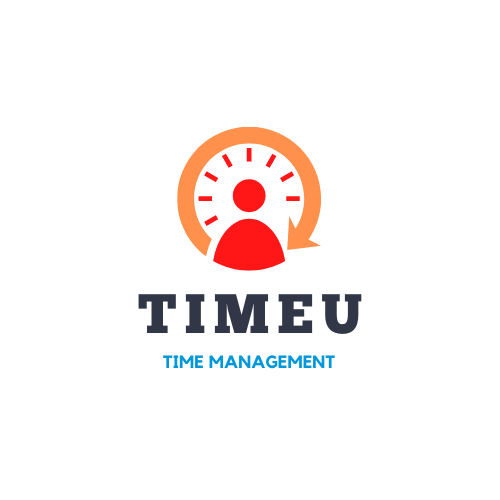
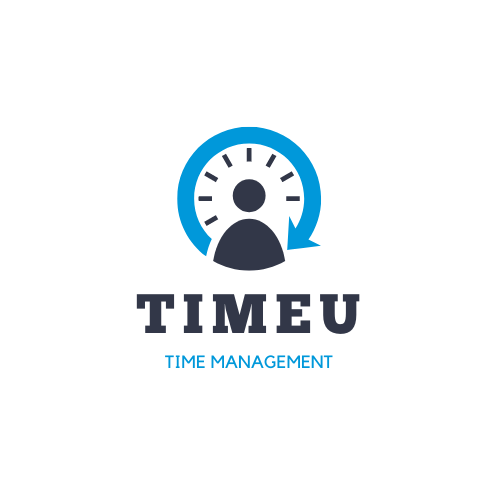
changed the appearance of the main page and included empty string once task is submitted.

Changed region(s): [[0.33, 0.24, 0.66, 0.54], [0.27, 0.57, 0.72, 0.66], [0.33, 0.69, 0.66, 0.75]]

diff --git a/style.css b/style.css
@@ -24,7 +24,7 @@
 
 nav {
     height: 20px;
-    background-color: #03CEA4;
+    background-color: #ade8f4;
     border: none;
 }
 
@@ -49,7 +49,7 @@ nav {
 }
 
 #contentMenu {
-    background-color: #EAC435;
+    background-color: #ade8f4;
     width: 300px;
     height: 100vh;
     justify-self: self-start;
@@ -69,6 +69,7 @@ nav {
 
 .important {
     text-align: center;
+    color: #fff;
 }
 .important ol {
     margin-left: 20px;
@@ -76,6 +77,7 @@ nav {
 
 .lessImportant {
     text-align: center;
+    color: #fff;
 }
 .lessImportant ol {
     margin-left: 20px;
@@ -124,7 +126,7 @@ section {
 
 .newTask button {
     border: none;
-    background-color: #EAC435;
+    background-color: #ade8f4;
     color: black;
     cursor: pointer;
 }
@@ -196,7 +198,7 @@ section {
     display: flex;
     flex-direction: row;
     justify-content: center;
-    background-color: #03CEA4;
+    background-color: #0096c7;
 
   }
 

diff --git a/main.html b/main.html
@@ -6,14 +6,14 @@
     <meta name="viewport" content="width=device-width, initial-scale=1.0">
     <script src="https://kit.fontawesome.com/9afcdcb935.js" crossorigin="anonymous"></script>
     <link rel="stylesheet" href="style.css">
-    <link rel="icon" href="/images/Timeu.png">
+    <link rel="icon" href="/images/timeU.png">
     <title>Project Management</title>
 </head>
 <body>
     <!--Title and logo-->
     <div id="title">
         <div id="logoIcon">
-            <img src="/images/Timeu.png" alt="logo" style="width: 100px;">
+            <img src="/images/timeU.png" alt="logo" style="width: 100px;">
         </div>
             <h1>Time Management and Tasks</h1>
         <div class="navIcon">

diff --git a/app.js b/app.js
@@ -27,6 +27,7 @@ submitBtn.addEventListener('click', function (e) {
         const newLi = document.createElement('LI');
         newLi.innerText = text;
         important.append(newLi);
+        input.value = "";
     }
 });
 
@@ -37,6 +38,7 @@ submitBtn.addEventListener('click', function (e) {
         const newLi = document.createElement('LI');
         newLi.innerText = text;
         necessary.append(newLi);
+        input.value = "";
     }
 });
 
